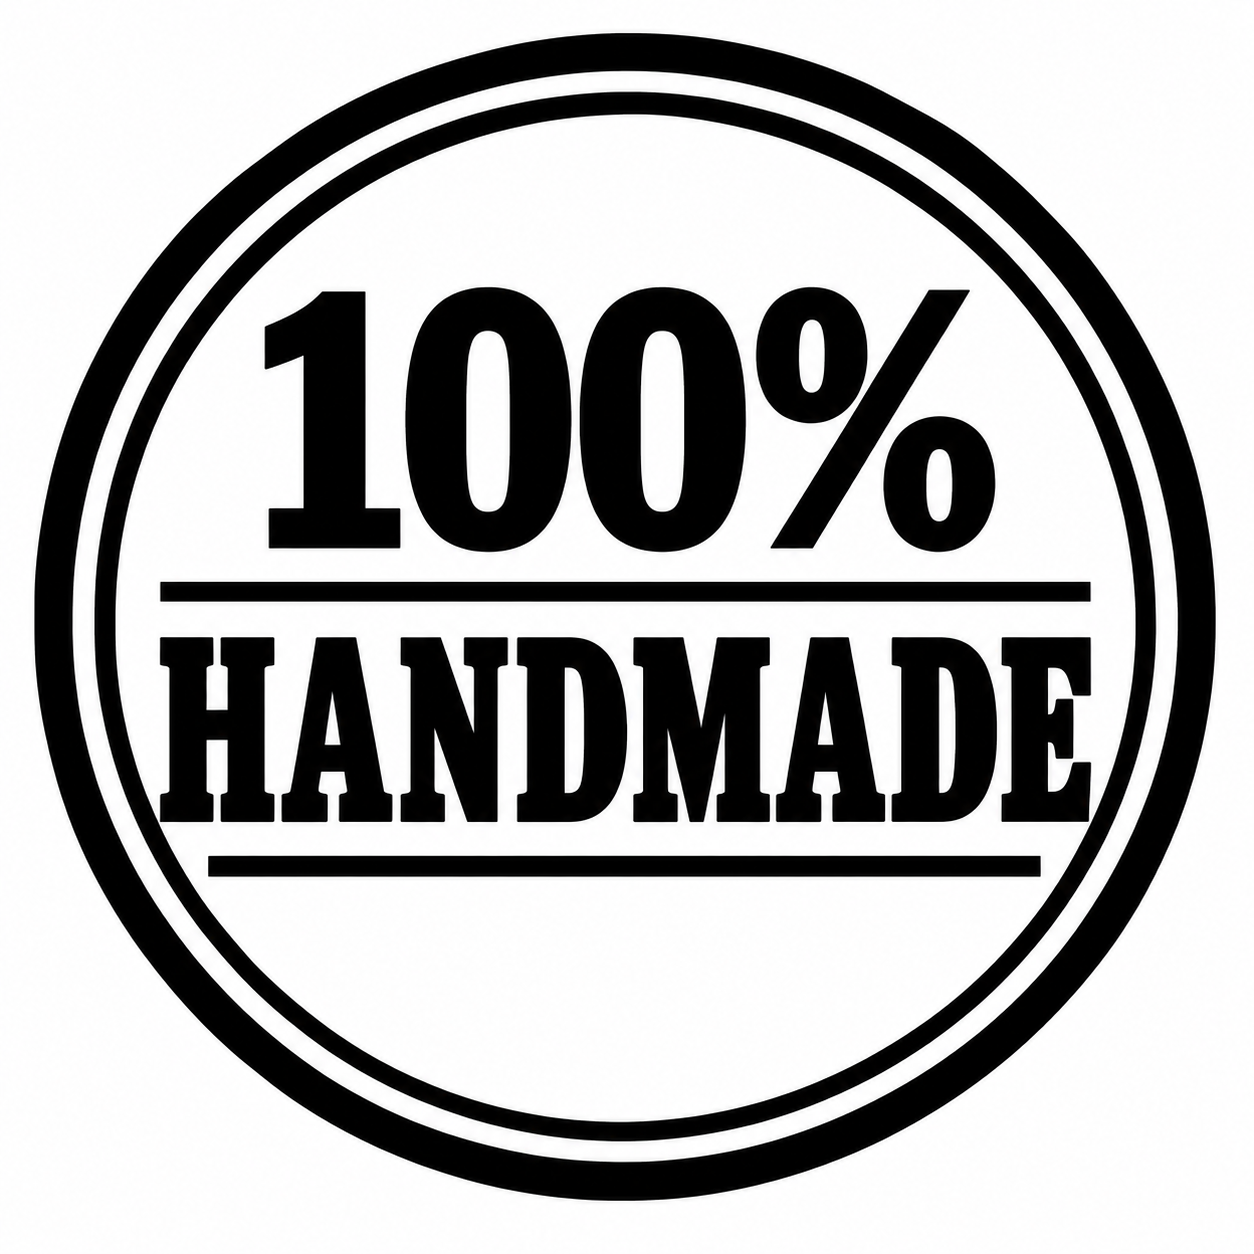
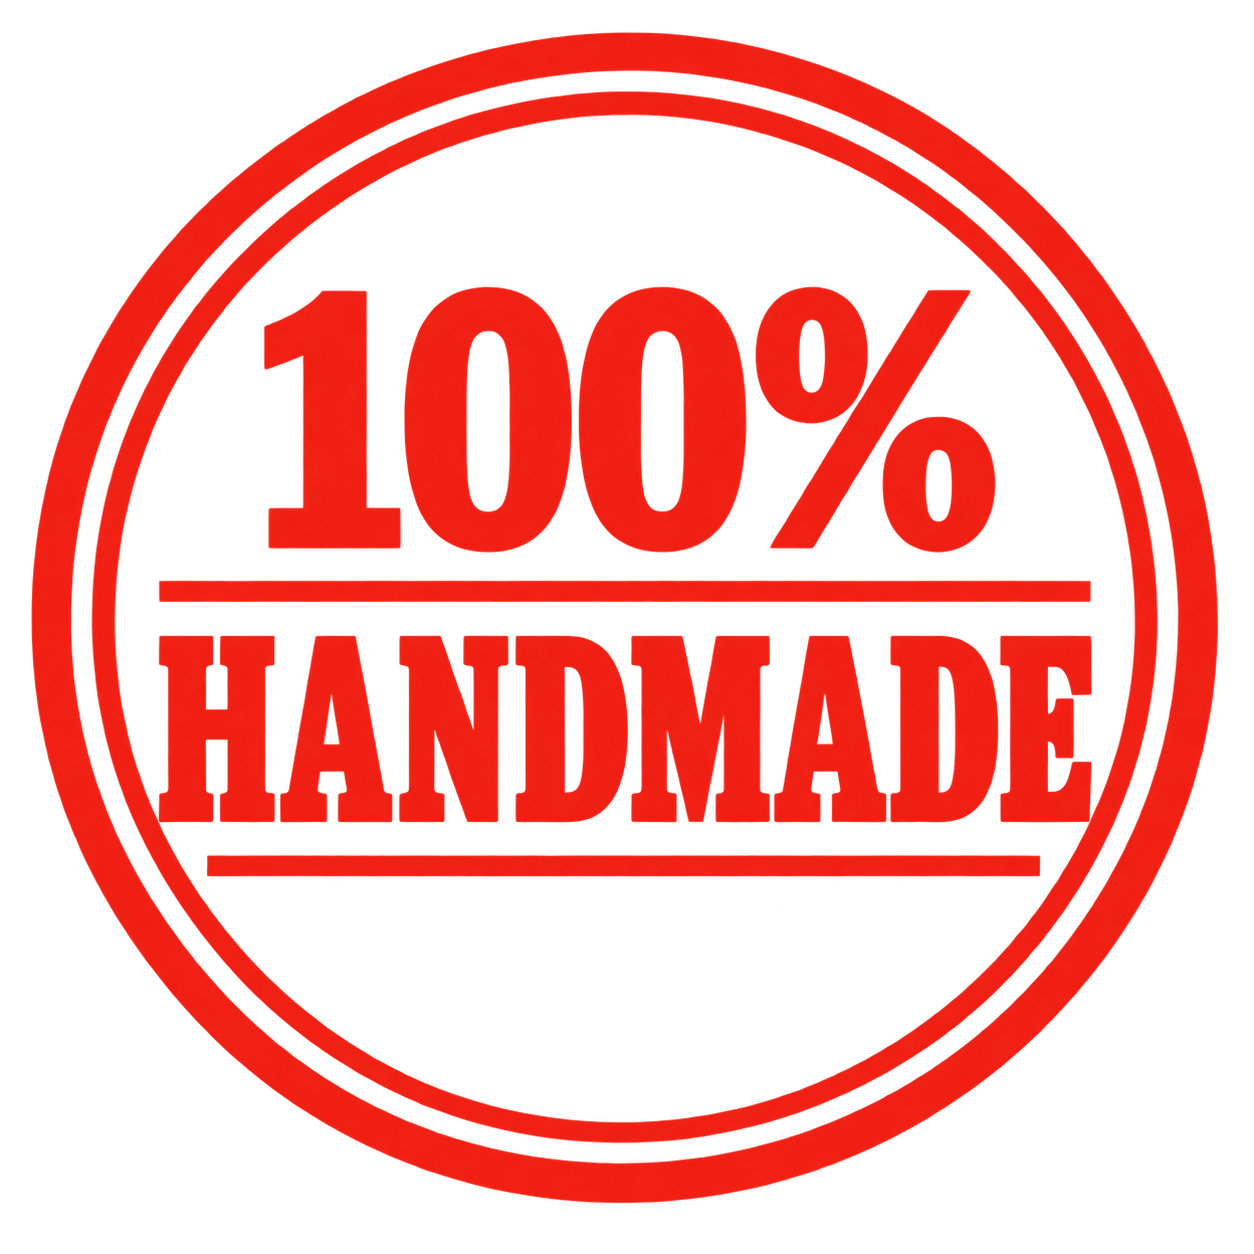
Recolor handmade stamp in brand red

diff --git a/app/globals.css b/app/globals.css
@@ -167,8 +167,7 @@ a:focus-visible {
   right: clamp(28px, 7vw, 120px);
   width: clamp(150px, 17vw, 290px);
   height: auto;
-  opacity: 0.82;
-  mix-blend-mode: multiply;
+  opacity: 1;
   pointer-events: none;
   user-select: none;
   transform: rotate(9deg);
@@ -2140,7 +2139,7 @@ a:focus-visible {
     top: 18px;
     right: -10px;
     width: clamp(118px, 34vw, 168px);
-    opacity: 0.76;
+    opacity: 1;
   }
 
   .entry-action {
